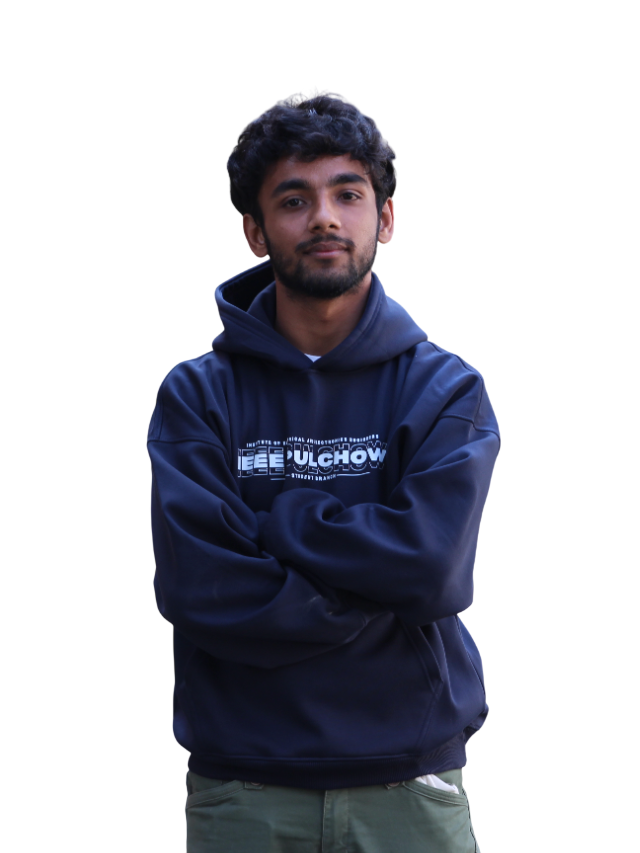
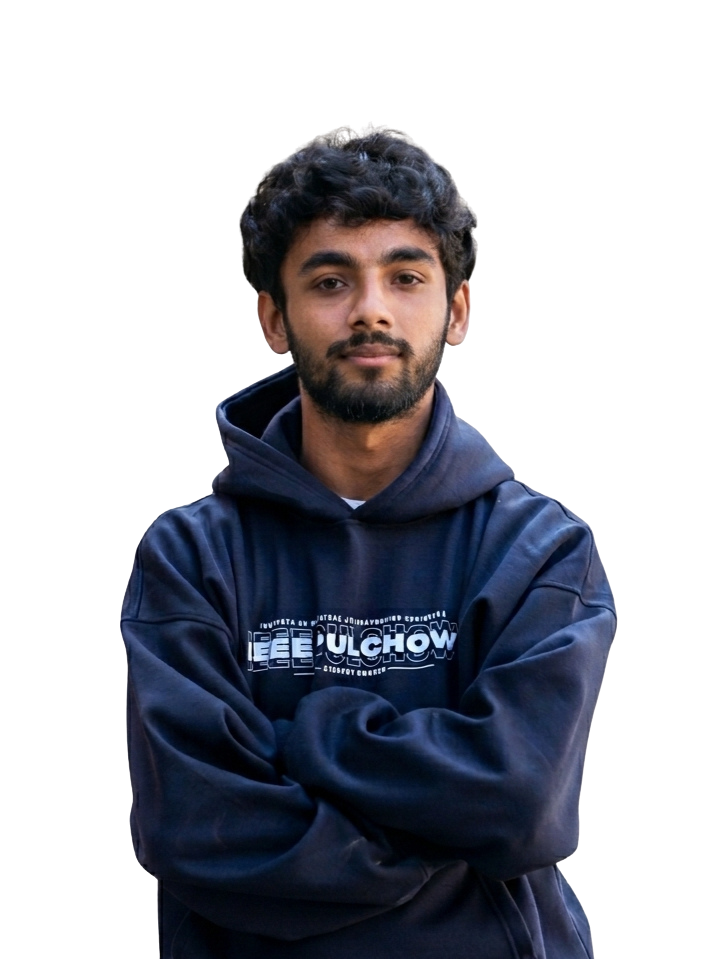
Updated my image

diff --git a/src/constants.ts b/src/constants.ts
@@ -67,8 +67,8 @@ export const TEAM_DATA: Record<string, TeamData> = {
         role: "Webmaster",
         imageUrl: "/committee/2026/animesh-dhakal.png",
         linkedin: "https://www.linkedin.com/in/animeshdhakal/",
-        imageScale: 1.4,
-        imageOffset: 25,
+        imageScale: 1.3,
+        imageOffset: 10,
       },
     ],
     seniorExecs: [
